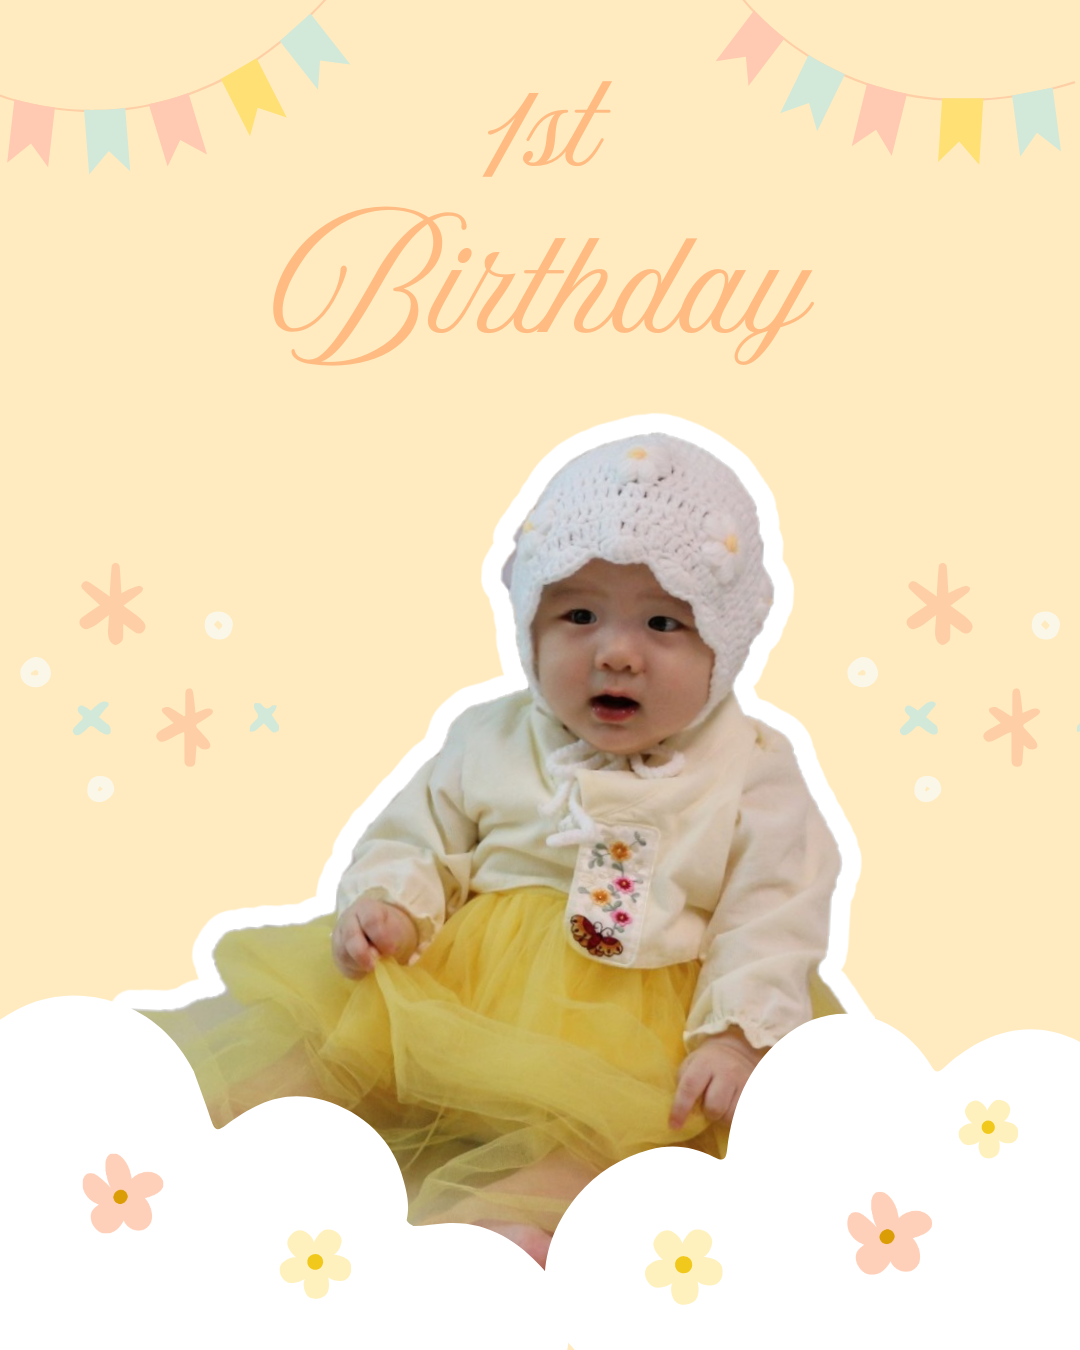
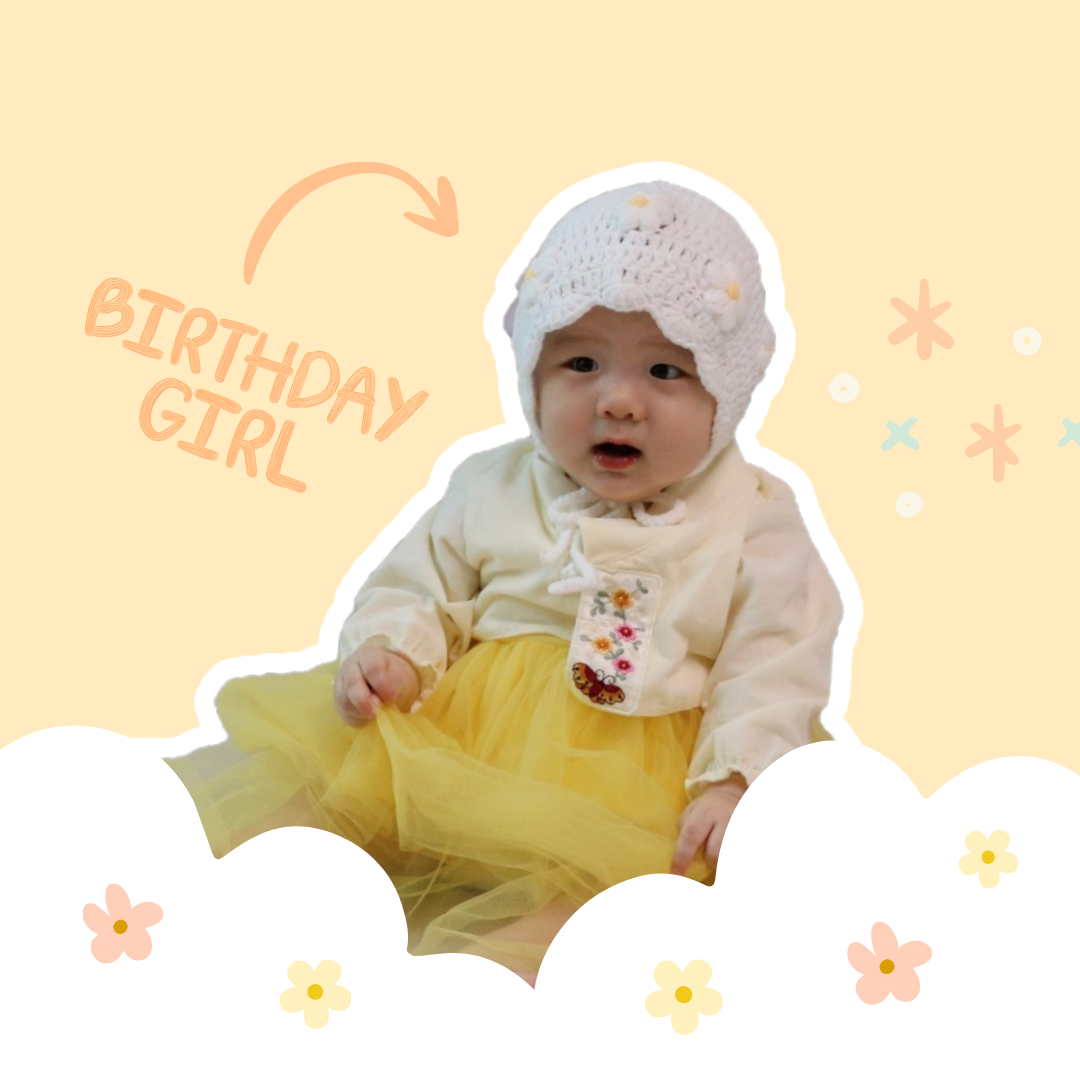
Update cover photo and 200days photo

diff --git a/script.js b/script.js
@@ -36,7 +36,8 @@ const TIMELINE_IMAGES = {
     '200days': [  // 2026.04.28
         'assets/200Day/20260411.jpg',
         'assets/200Day/20260501.jpg',
-        'assets/200Day/20260529.jpg'
+        'assets/200Day/20260529.jpg',
+        'assets/200Day/20260727.jpg'
     ],
     '250days': [  // 2026.06.17
         'assets/250Day/20260611.jpg',
